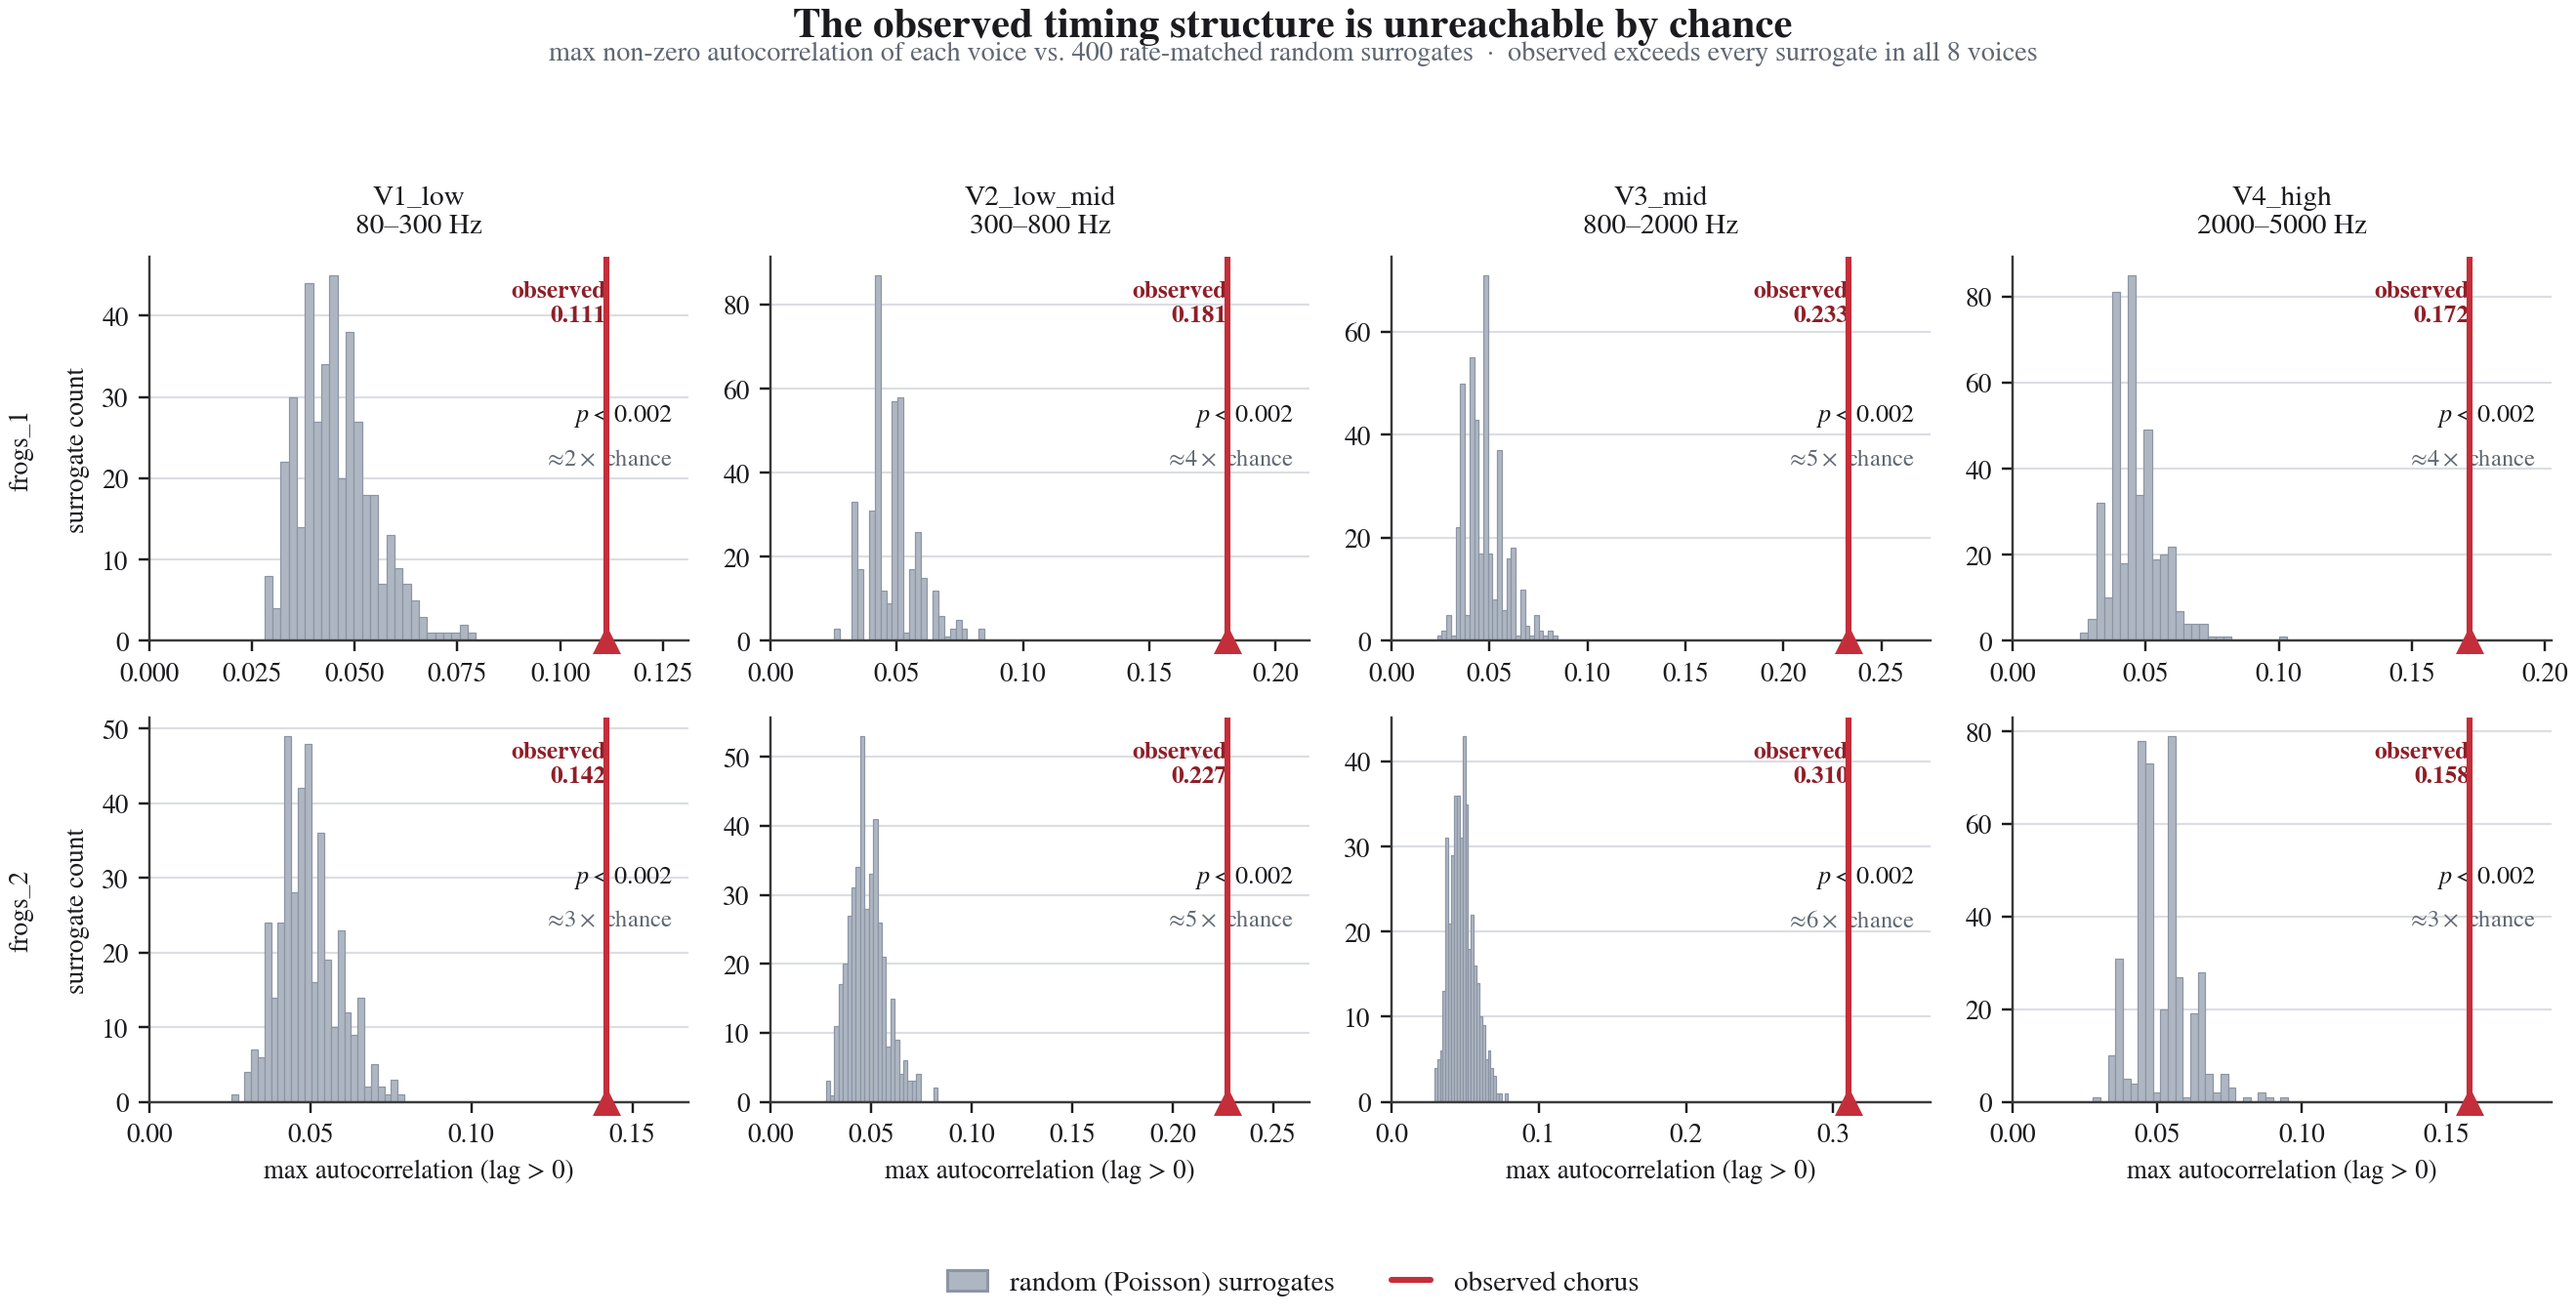
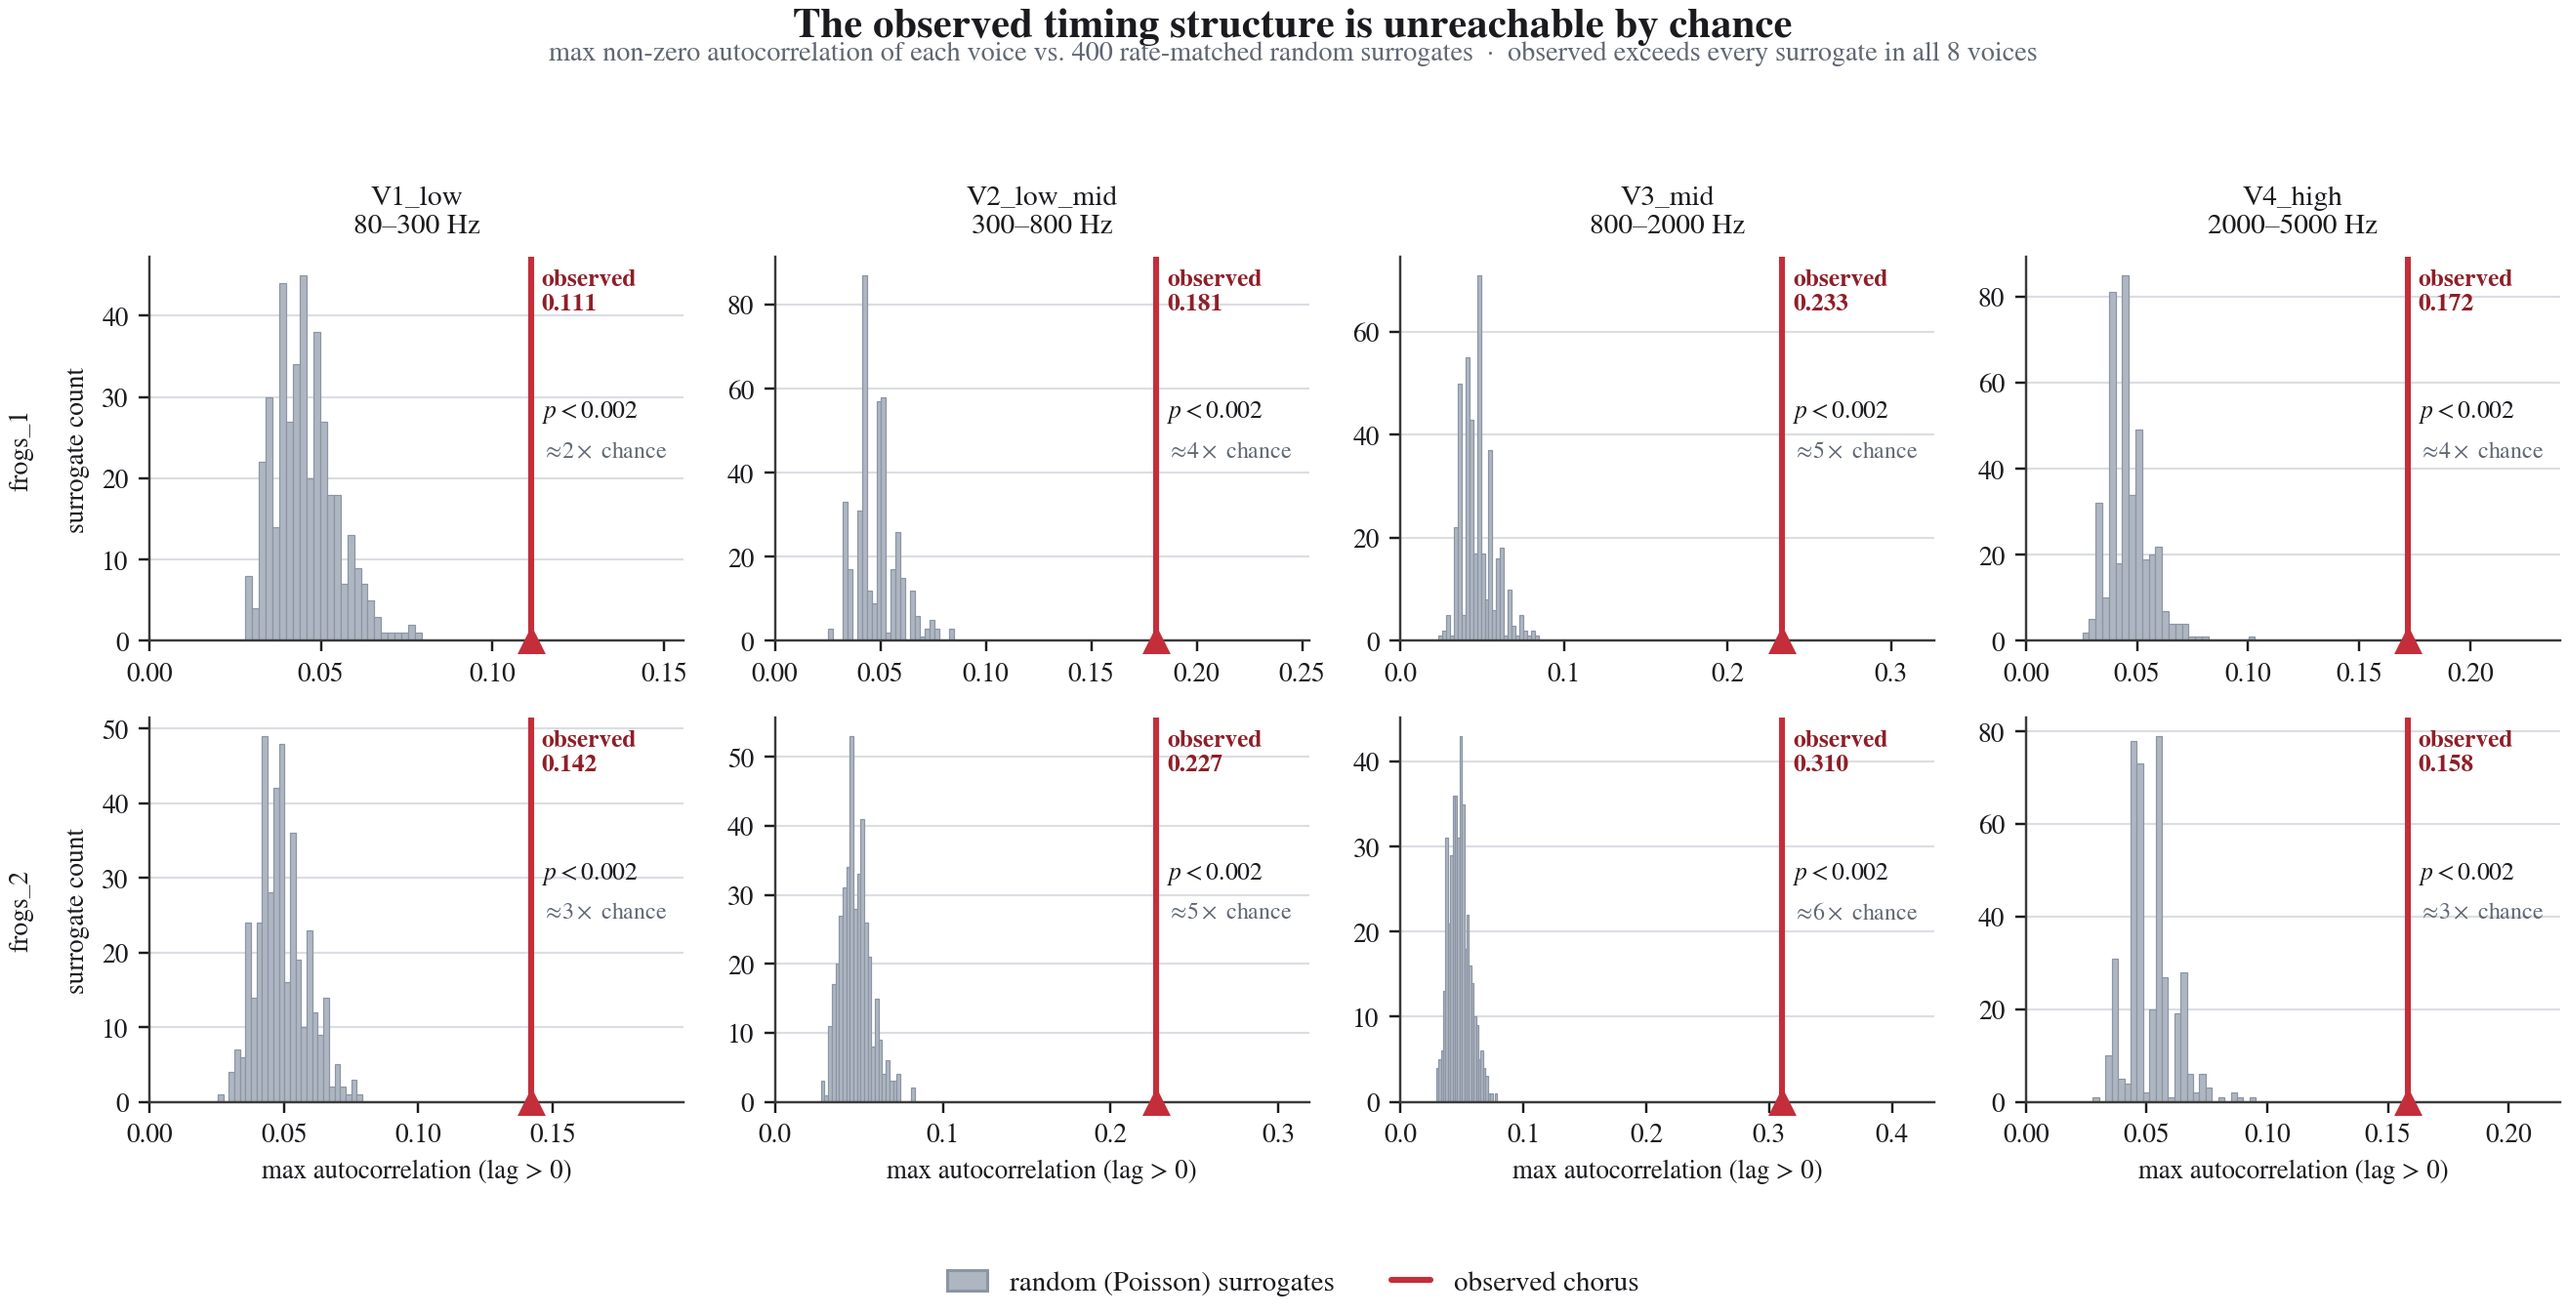
Fix Figure 2 label overlap; independently verify all figure values
The p-value and "Nx chance" annotations in fig2_null_test.png were anchored at
the right edge and the observed line struck through them. Move all per-panel
labels into the whitespace to the right of the line (wider x-limit) so nothing
is crossed.

Verification: every plotted quantity re-checked with independent methods --
np.correlate vs the custom autocorrelation loop, np.corrcoef vs the custom
cross-correlation, and fresh 500-Poisson-surrogate nulls. All autocorrelation
peaks, CV, KS p-values, the cross-correlation matrix, and the composite peaks
match results.json and the displayed values exactly; the observed value exceeds
all 500 surrogates in every voice. No miscalculations found.

diff --git a/frogs/scripts/make_figures.py b/frogs/scripts/make_figures.py
@@ -354,21 +354,23 @@ def fig2_null_test():
             ax.plot([obs], [0], marker="^", ms=8, color=C["observed"],
                     clip_on=False, zorder=5)
 
-            # headroom so the observed line + labels have room on the right
-            ax.set_xlim(0, max(obs, null.max()) * 1.18)
+            # widen so the observed line and its labels sit in clear whitespace
+            # to the RIGHT of the line (never crossing it)
+            xmax = max(obs, null.max()) * 1.4
+            ax.set_xlim(0, xmax)
             despine(ax, keep=("left", "bottom"))
             soft_grid(ax)
 
+            ymax = ax.get_ylim()[1]
             factor = obs / max(null.mean(), 1e-9)
-            ax.text(obs, ax.get_ylim()[1] * 0.94,
-                    f"observed\n{obs:.3f}", color=C["observed_d"],
-                    ha="right", va="top", fontsize=8.3, fontweight="bold")
-            ax.text(0.97, 0.62, fmt_p(s["p_vs_poisson"]),
-                    transform=ax.transAxes, ha="right", va="top",
-                    fontsize=8.6, color=C["ink"])
-            ax.text(0.97, 0.50, rf"$\approx\!{factor:.0f}\times$ chance",
-                    transform=ax.transAxes, ha="right", va="top",
-                    fontsize=8.0, color=C["muted"])
+            pad = (xmax - obs) * 0.07
+            ax.text(obs + pad, ymax * 0.97, f"observed\n{obs:.3f}",
+                    color=C["observed_d"], ha="left", va="top",
+                    fontsize=8.3, fontweight="bold")
+            ax.text(obs + pad, ymax * 0.63, fmt_p(s["p_vs_poisson"]),
+                    color=C["ink"], ha="left", va="top", fontsize=8.4)
+            ax.text(obs + pad, ymax * 0.52, rf"$\approx\!{factor:.0f}\times$ chance",
+                    color=C["muted"], ha="left", va="top", fontsize=7.8)
 
             if i == 0:
                 ax.set_title(f"{v}\n{band_label(results, v)}", fontsize=9.6)
